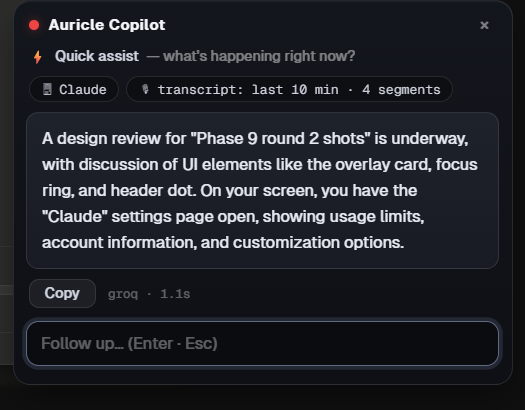
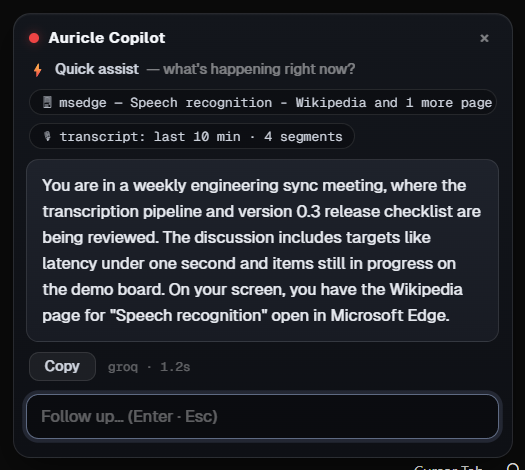
ship prep: privacy pass on screenshots and docs
- all 13 overlay screenshots (r1 + r2) retaken against neutral windows
  (Wikipedia article, synthetic sprint-board page); r1 set re-shot with
  the round-1 binary rebuilt from history so the phase report's
  before/after stays honest
- docs/API.md /ask example regenerated from a fresh capture against the
  neutral sprint board; usernames in example paths masked
- personal window titles removed from phase reports and overlay test
  fixtures (tests updated to the new captured shapes, vitest 29/29)
- LIBCLANG_PATH repointed to the standard LLVM install location;
  whisper-rs-sys rebuild verified against it

diff --git a/overlay/src/chips.test.ts b/overlay/src/chips.test.ts
@@ -50,14 +50,14 @@ describe('context chip derivation (the honesty affordance)', () => {
     expect(chips[0].label.length).toBeLessThanOrEqual('msedge — '.length + 48);
     expect(chips[0].label.endsWith('…')).toBe(true);
     // Typical browser titles now survive whole (round-2 item 3).
-    const jira = deriveChips(
+    const board = deriveChips(
       {
-        screen: { window_title: 'Almanac - Kanban Board - Jira', app_name: 'chrome' },
+        screen: { window_title: 'Sprint Board — Demo Project - Personal', app_name: 'msedge' },
         transcript_segments: null,
       },
       10,
     );
-    expect(jira[0].label).toBe('chrome — Almanac - Kanban Board - Jira');
+    expect(board[0].label).toBe('msedge — Sprint Board — Demo Project - Personal');
   });
 
   it('skips the app prefix when the title already names it', () => {
@@ -68,10 +68,10 @@ describe('context chip derivation (the honesty affordance)', () => {
     // "Task Manager" doesn't contain "Taskmgr" — prefix kept.
     expect(chips[0].label).toBe('Taskmgr — Task Manager');
     const chips2 = deriveChips(
-      { screen: { window_title: 'Almanac', app_name: 'almanac' }, transcript_segments: null },
+      { screen: { window_title: 'Notepad', app_name: 'notepad' }, transcript_segments: null },
       10,
     );
-    expect(chips2[0].label).toBe('Almanac');
+    expect(chips2[0].label).toBe('Notepad');
   });
 
   it('respects a non-default window length on the label', () => {

diff --git a/overlay/src/ask.test.ts b/overlay/src/ask.test.ts
@@ -10,10 +10,10 @@ describe('ask SSE event mapping', () => {
     const started = applyAskEvent(
       {
         type: 'ask_started',
-        ask_id: 'a19f6718d151',
+        ask_id: 'a19f69571183',
         provider: 'groq',
         model: 'llama-3.3-70b-versatile',
-        screen: { app_name: 'almanac', ocr_ms: 15, window_title: 'Almanac' },
+        screen: { app_name: 'msedge', ocr_ms: 74, window_title: 'Speech recognition - Wikipedia' },
         transcript_segments: 3,
       },
       10,
@@ -21,10 +21,10 @@ describe('ask SSE event mapping', () => {
     );
     expect(started).toEqual({
       type: 'ASK_STARTED',
-      askId: 'a19f6718d151',
+      askId: 'a19f69571183',
       provider: 'groq',
       chips: [
-        { icon: 'screen', label: 'Almanac' },
+        { icon: 'screen', label: 'msedge — Speech recognition - Wikipedia' },
         { icon: 'transcript', label: 'transcript: last 10 min · 3 segments' },
       ],
     });

diff --git a/docs/PHASE9_OVERLAY_REPORT.md b/docs/PHASE9_OVERLAY_REPORT.md
@@ -111,7 +111,7 @@ client; no engine change was needed or made.
 | Focus | foreground = overlay after every summon (RegisterHotKey grants activation; Phase 7 finding 14 holds) |
 | Esc dismiss | visible=False within 300 ms |
 | Quick-assist during a real session (Deepgram, live TTS) | answer grounded in BOTH sources; chips showed the true captured window + "transcript: last 10 min · N segments" |
-| HWND exclusion | overlay is foreground at capture time, yet chips/answers always name the window *behind* it (Chrome, Cursor) — never "Auricle Copilot"; the overlay never OCR'd its own answer |
+| HWND exclusion | overlay is foreground at capture time, yet chips/answers always name the window *behind* it (the browser/editor in use) — never "Auricle Copilot"; the overlay never OCR'd its own answer |
 | Engine killed under the overlay | amber "engine offline" badge (health poll backoff 1-2-4-8-10 s); badge clears after the engine returns; mid-stream ask ends with the truncated answer preserved |
 | Overlay killed mid-recording | engine state `recording` before and after; a sentence spoken *after* the kill was transcribed and persisted |
 | retain_context=false | after all overlay asks, the engine DB still has no `asks` table |
@@ -173,10 +173,10 @@ after, each verified in the `r2_*` screenshots:
 | 1c | Chip titles amputated at 34 chars | Budget raised to 48; typical browser titles now survive whole (locked by a vitest case) | `r2_*` chips |
 | 1d | Esc hint only on the follow-up placeholder | Both placeholders read "(Enter · Esc)" | `r2_summoned_*` |
 | 1e | Drop shadow clipped by the 4 px margin | Margin widened to 10 px with a compact shadow sized to fit it (window resize accounts for +20) | all `r2_*` — the card visibly floats |
-| 2 | Desktop content ghosted through the card | All card surfaces are fully opaque (`rgb()` gradients, no alpha); transparency exists only in the shadow gutter outside the card | compare `r1_answered_dark` top edge vs any `r2_*`; the strip of desktop visible at a shot's edge is the outside gutter, by design |
+| 2 | Desktop content ghosted through the card | All card surfaces are fully opaque (`rgb()` gradients, no alpha); transparency exists only in the shadow gutter outside the card | the `r1_*` cards are translucent (the page behind tints the surface) vs the opaque `r2_*` cards; any strip of desktop at a shot's edge is the outside gutter, by design |
 | 3 | Answer panel ≈ card background in dark | Answer panel lightened (rgb 30/34/43 → 24/27/35 gradient) + `--edge-strong` border | `r2_answered_dark` |
 | 4 | Light theme: dark chrome around a light card | Opaque light surfaces + lighter/softer light-theme shadow + slightly stronger light edge; what remains dark at a screenshot's rim is the see-through gutter showing the desktop, not chrome | `r2_summoned_light`, `r2_answered_light` |
-| 5 | Raw token count | Actions row shows "`{provider} · {elapsed}s`" (submit → answer_done, timed through event payloads so the reducer stays pure); token count moved to the row's tooltip | `r2_answered_dark` ("groq · 1.1s"), `r2_answered_light` ("groq · 1.8s") |
+| 5 | Raw token count | Actions row shows "`{provider} · {elapsed}s`" (submit → answer_done, timed through event payloads so the reducer stays pure); token count moved to the row's tooltip | `r2_answered_dark` / `r2_answered_light` ("groq · 1.2s") vs the `r1_*` raw token counts |
 | 6 | No distinct quick-assist state | "⚡ Quick assist — what's happening right now?" marker renders above the chips for hotkey-initiated asks (cleared by the next typed ask); thinking state covered under 1b | `r2_thinking_dark`, `r2_answered_dark`, `r2_answered_light` |
 | 7 | MSI required elevation by default | Custom WiX template (tauri-bundler 2.x stock template + `ALLUSERS=2`/`MSIINSTALLPERUSER=1` in the Property table — the canonical dual-purpose pattern; only that block changed). Plain `msiexec /i <msi> /quiet` now installs per-user with **no elevation** (verified: exit 0 into `%LOCALAPPDATA%\Programs`, uninstall clean); per-machine remains available via `ALLUSERS=1 MSIINSTALLPERUSER=""`, documented in BUILDING.md |
 

diff --git a/docs/API.md b/docs/API.md
@@ -99,7 +99,7 @@ literally): `GET /api/v1/sessions?q=budget`.
 
 ```
 $ curl http://127.0.0.1:4820/api/v1/sessions
-{"sessions":[{"ended_at":1783233667,"id":"s19f31016d52","meta":{"audio":{"loopback":"C:\\Users\\manee\\AppData\\Local\\auricle\\sessions\\s19f31016d52\\loopback_16k.wav","mic":"C:\\Users\\manee\\AppData\\Local\\auricle\\sessions\\s19f31016d52\\mic_16k.wav"},"devices":{"loopback":"Speakers (Stealth 600P Gen 3)","mic":"Microphone (Stealth 600P Gen 3)"}},"started_at":1783233605,"stt_provider":"deepgram","title":"API walkthrough"}, …]}
+{"sessions":[{"ended_at":1783233667,"id":"s19f31016d52","meta":{"audio":{"loopback":"C:\\Users\\you\\AppData\\Local\\auricle\\sessions\\s19f31016d52\\loopback_16k.wav","mic":"C:\\Users\\you\\AppData\\Local\\auricle\\sessions\\s19f31016d52\\mic_16k.wav"},"devices":{"loopback":"Speakers (Stealth 600P Gen 3)","mic":"Microphone (Stealth 600P Gen 3)"}},"started_at":1783233605,"stt_provider":"deepgram","title":"API walkthrough"}, …]}
 ```
 
 `meta.audio` appears only when `[audio].retain_raw_audio = true`: the
@@ -276,25 +276,24 @@ Nothing question- or screen-derived is persisted unless
 in-memory only and dies with the daemon.
 
 Real captured exchange (Groq, while a session was recording a meeting
-about a beta rollout and a briefing page was the foreground window;
-abridged mid-stream):
+and a sprint-board page was the foreground window; abridged mid-stream):
 
 ```
 $ curl -N -X POST http://127.0.0.1:4820/api/v1/ask \
     -H "Content-Type: application/json" \
     -d '{"question":"what was just being discussed and what'\''s on my screen?",
          "include_screen":true,"include_transcript":true,"provider":"groq"}'
-data: {"ask_id":"a19f6718d151","model":"llama-3.3-70b-versatile","provider":"groq","screen":{"app_name":"almanac","ocr_ms":15,"window_title":"Almanac"},"transcript_segments":3,"type":"ask_started"}
+data: {"ask_id":"a19f69571183","model":"llama-3.3-70b-versatile","provider":"groq","screen":{"app_name":"msedge","ocr_ms":74,"window_title":"Sprint Board — Demo Project - Personal - Microsoft Edge"},"transcript_segments":4,"type":"ask_started"}
 
-data: {"ask_id":"a19f6718d151","text":"*","type":"answer_delta"}
+data: {"ask_id":"a19f69571183","text":"The","type":"answer_delta"}
 
-data: {"ask_id":"a19f6718d151","text":" The","type":"answer_delta"}
+data: {"ask_id":"a19f69571183","text":" recent","type":"answer_delta"}
 
-data: {"ask_id":"a19f6718d151","text":" recent","type":"answer_delta"}
+data: {"ask_id":"a19f69571183","text":" discussion","type":"answer_delta"}
 …
-data: {"ask_id":"a19f6718d151","text":"\".","type":"answer_delta"}
+data: {"ask_id":"a19f69571183","text":")","type":"answer_delta"}
 
-data: {"ask_id":"a19f6718d151","type":"answer_done","usage":{"completion_tokens":39,"prompt_tokens":366,"total_tokens":405}}
+data: {"ask_id":"a19f69571183","type":"answer_done","usage":{"completion_tokens":151,"prompt_tokens":546,"total_tokens":697}}
 ```
 
 The opening `ask_started` event echoes exactly what context was

diff --git a/docs/PHASE8_ASSISTANT_REPORT.md b/docs/PHASE8_ASSISTANT_REPORT.md
@@ -66,7 +66,7 @@ TTS played through the system default output; all spoken sentences
 transcribed correctly. Asks were issued with
 `include_screen: true, include_transcript: true` and the question
 *"what was just being discussed and what's on my screen?"* while a
-window ("Almanac", a text-dense briefing page) was foreground. The
+window (a text-dense briefing page) was foreground. The
 `curl -N` exchange is reproduced in API.md; every answer was verified
 grounded in BOTH sources (transcript facts: Aurora project, $320,000
 budget, two Rust engineers; screen facts: the briefing's action items).
